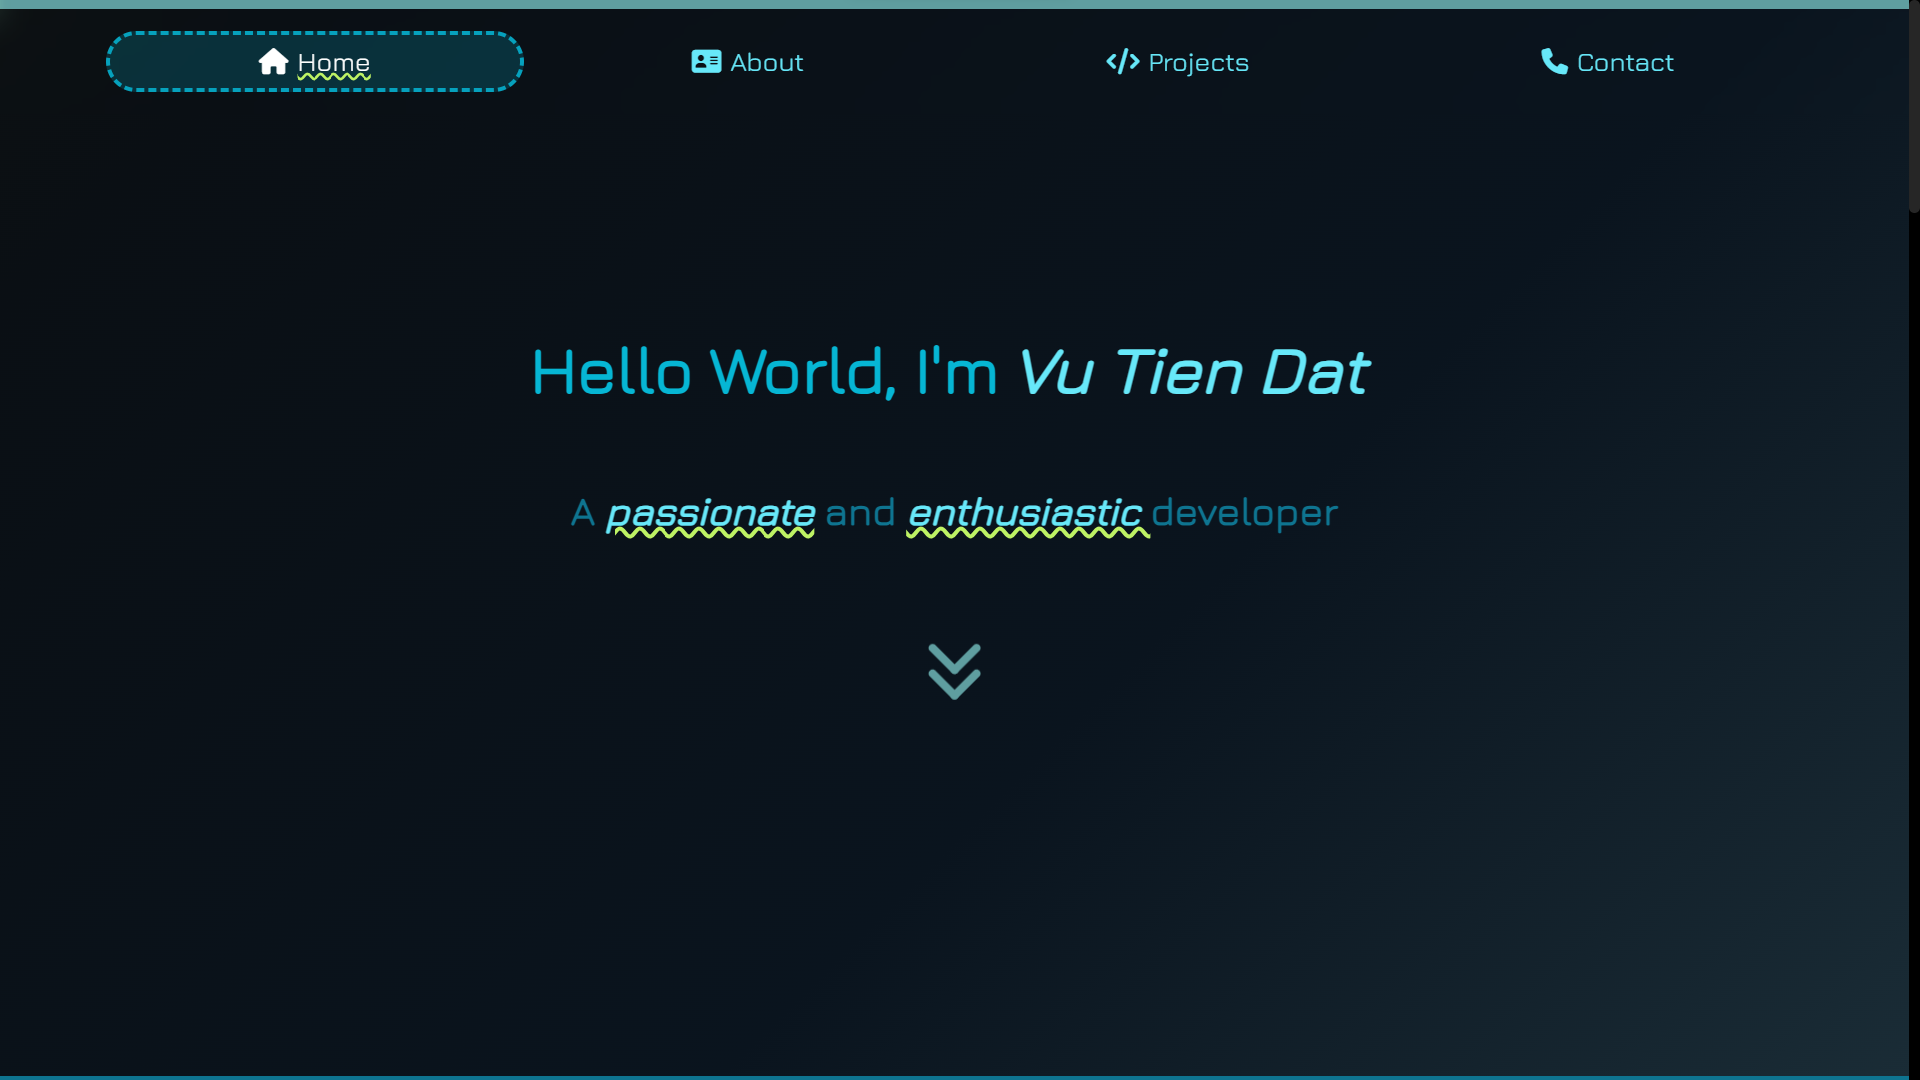
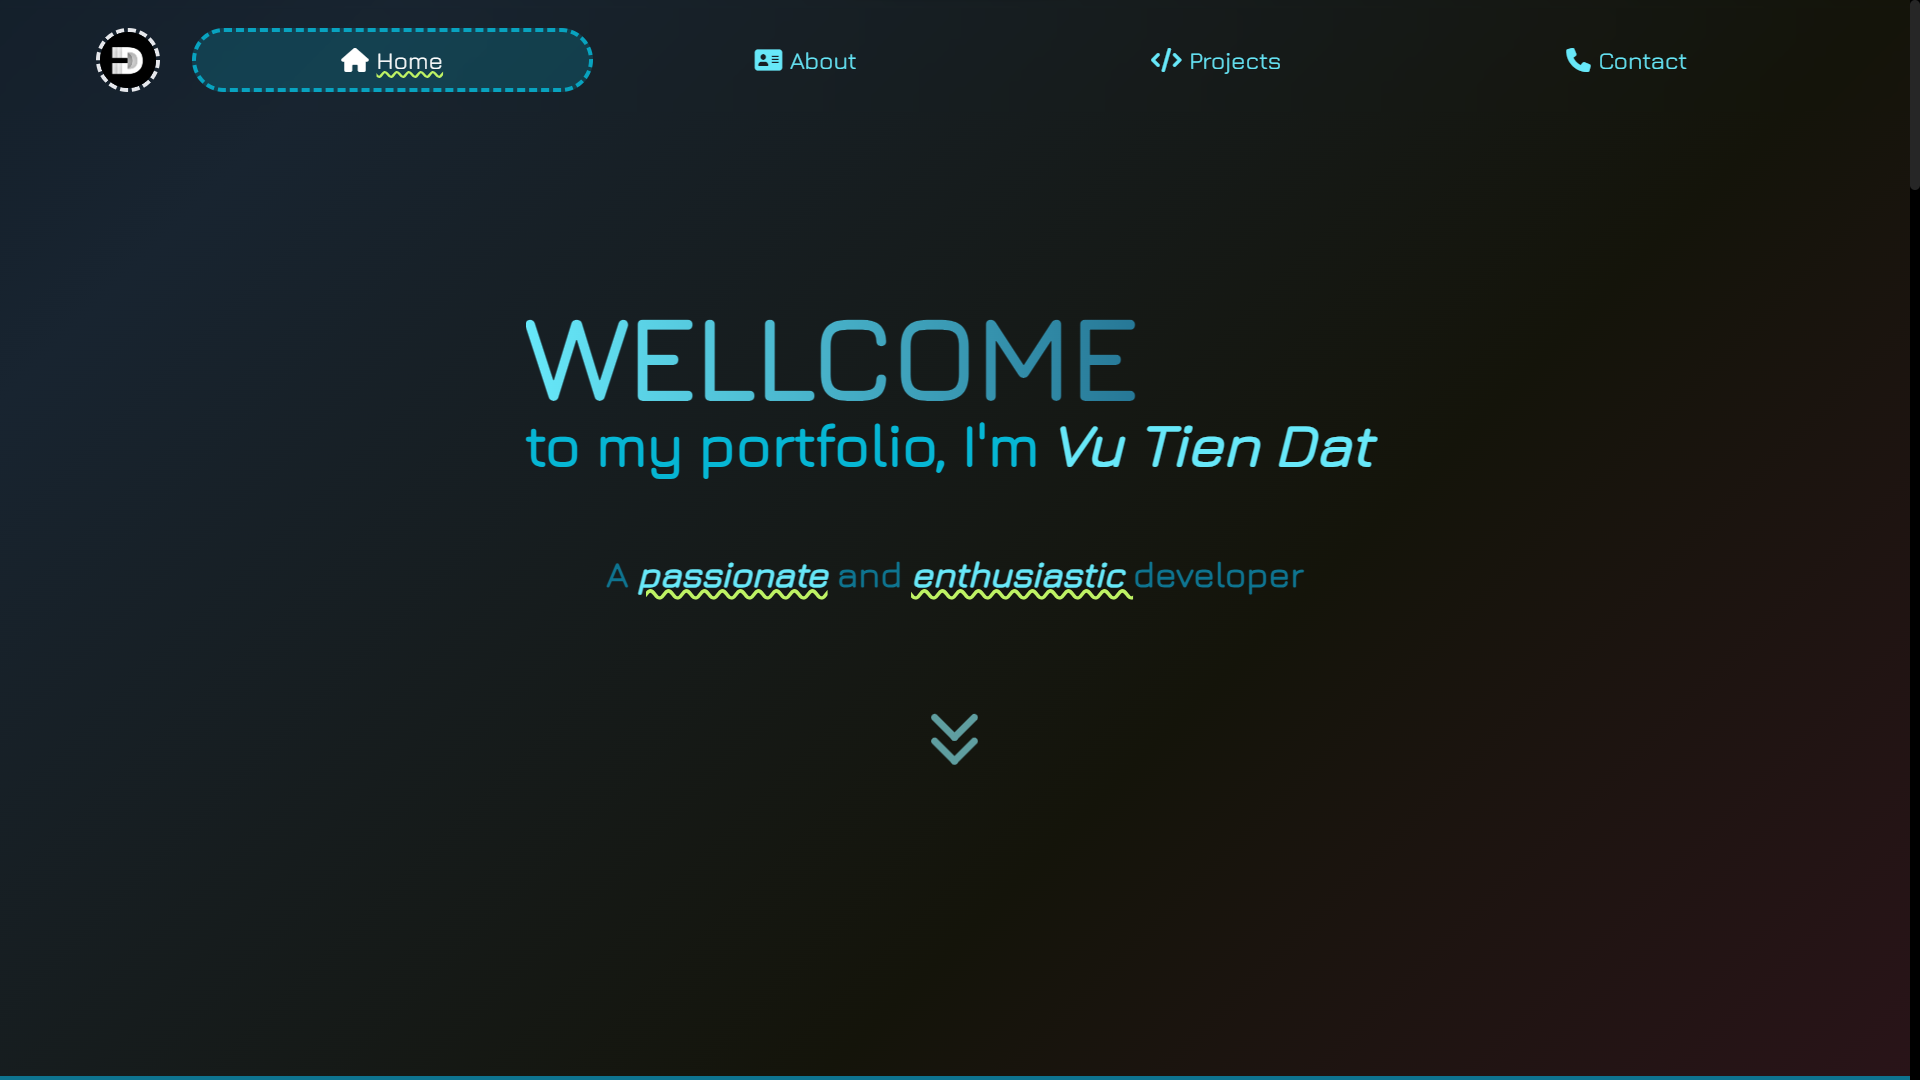
update pỏtfolio

diff --git a/my-app/src/view/components/about/About.js b/my-app/src/view/components/about/About.js
@@ -5,21 +5,17 @@ import ItemSkillWrapper from '../layout/ItemSkillWrapper'
 import expressLogo from '../../assets/image/express.png'
 import nodejsLogo from '../../assets/image/node-js.png'
 import avatar from '../../assets/image/avartar.jpg'
-import { FaCode } from "react-icons/fa6";
-import { FaFilm } from "react-icons/fa6";
-import { FaMusic } from "react-icons/fa6";
-import { FaGamepad } from "react-icons/fa6";
-import { FaMugHot } from "react-icons/fa6";
-import { FaMapLocationDot } from "react-icons/fa6";
-import { FaMoneyBillWave } from "react-icons/fa6";
-import { FaShuttleSpace, FaDisplay, FaServer, FaListOl, FaDatabase } from "react-icons/fa6";
- 
+import firebase from '../../assets/image/firebase.png'
+import github from '../../assets/image/github.png'
+// import github from '../../assets/image/github.png'
+
+import { FaCode, FaFilm, FaMusic, FaGamepad, FaMugHot, FaMapLocationDot, FaMoneyBillWave, FaShuttleSpace, FaDisplay, FaServer, FaListOl, FaDatabase } from "react-icons/fa6";
 import { FieldsetBig, FieldsetChild, FieldsetNormal } from '../layout/Fieldset'
 
 const About = () => {
     const interestItemStyle = 'flex items-center gap-2 text-xl font-semibold'
     return (
-        <section id='about' className='bg-gradient-to-b from-indigo-950 to-sky-900 flex flex-col  items-center px-4 pb-20  border-b-4 border-cyan-700 '>
+        <section id='about' className='bg-gradient-to-r from-black to-cyan-900 flex flex-col  items-center px-4 pb-20r-b-4 border-cyan-700 py-36'>
             <div id='about-me' className='about-container flex flex-wrap justify-center items-center  gap-8 pt-24' >
                 <div className='avatar'>
                     <img src={avatar} alt='avatar'
@@ -68,12 +64,13 @@ const About = () => {
 
                 {/* front end */}
                 <div id='front-end' className='pt-36'>
-                    <FieldsetBig id={'front-end'} icon={<FaDisplay className='text-3xl'/>} title={"Front-End"} spanAfter={<i class="fa fa-gg"></i>}>
+                    <FieldsetBig id={'front-end'} icon={<FaDisplay className='text-3xl' />} title={"Front-End"} spanAfter={<i class="fa fa-gg"></i>}>
                         <FieldsetChild title={"Template"}>
                             <ItemSkillWrapper logoPath={'https://cdn.jsdelivr.net/gh/devicons/devicon/icons/html5/html5-original.svg'} iName={'HTML5'} />
                         </FieldsetChild>
                         <FieldsetChild title={"Style"}>
                             <ItemSkillWrapper logoPath={'https://cdn.jsdelivr.net/gh/devicons/devicon/icons/css3/css3-original.svg'} iName={'CSS'} />
+                            <ItemSkillWrapper logoPath={'https://cdn.jsdelivr.net/gh/devicons/devicon/icons/sass/sass-original.svg'} iName={'SASS'} />
                             <ItemSkillWrapper logoPath={'https://cdn.jsdelivr.net/gh/devicons/devicon/icons/tailwindcss/tailwindcss-plain.svg'} iName={'Tailwind CSS'} />
                         </FieldsetChild>
                         <FieldsetChild title={"Programming"}>
@@ -86,7 +83,7 @@ const About = () => {
                 </div>
                 {/* backend */}
                 <div id='back-end' className='pt-36'>
-                    <FieldsetBig id={'back-end'} icon={<FaServer className='text-3xl'/>} title={"Back-End"} spanAfter={<i class="fa fa-gg"></i>}>
+                    <FieldsetBig id={'back-end'} icon={<FaServer className='text-3xl' />} title={"Back-End"} spanAfter={<i class="fa fa-gg"></i>}>
                         <ItemSkillWrapper logoPath={nodejsLogo} iName={'Node.js'} />
                         <ItemSkillWrapper logoPath={expressLogo} iName={'Express'} />
                         <FieldsetChild icon={<FaDatabase />} title={"Database"}>
@@ -98,15 +95,14 @@ const About = () => {
 
                 {/* Communications */}
                 <div id='other' className='pt-36'>
-                    <FieldsetBig id={'other'} icon={<FaListOl className='text-3xl'/>} title={"Other"} spanAfter={<i class="fa fa-gg"></i>}>
+                    <FieldsetBig id={'other'} icon={<FaListOl className='text-3xl' />} title={"Other"} spanAfter={<i class="fa fa-gg"></i>}>
+                        <ItemSkillWrapper logoPath={firebase} iName={'Firebase'} />
+                        <ItemSkillWrapper logoPath={github} iName={'Github'} />
+                        <ItemSkillWrapper logoPath={'https://cdn.jsdelivr.net/gh/devicons/devicon/icons/git/git-original.svg'} iName={'Git'} />
                         <ItemSkillWrapper logoPath={'https://cdn.jsdelivr.net/gh/devicons/devicon/icons/docker/docker-original.svg'} iName={'Docker'} />
-                        <ItemSkillWrapper logoPath={'https://wikiwandv2-19431.kxcdn.com/_next/image?url=https:%2F%2Fupload.wikimedia.org%2Fwikipedia%2Fcommons%2Fthumb%2Fb%2Fb5%2FDBeaver_logo.svg%2F1500px-DBeaver_logo.svg.png&w=828&q=50'} iName={'Dbeaver'} />
+                        {/* <ItemSkillWrapper logoPath={'https://wikiwandv2-19431.kxcdn.com/_next/image?url=https:%2F%2Fupload.wikimedia.org%2Fwikipedia%2Fcommons%2Fthumb%2Fb%2Fb5%2FDBeaver_logo.svg%2F1500px-DBeaver_logo.svg.png&w=828&q=50'} iName={'Dbeaver'} /> */}
                     </FieldsetBig>
                 </div>
-
-
-
-
             </div>
         </section>
     )

diff --git a/my-app/src/view/components/project/Project.js b/my-app/src/view/components/project/Project.js
@@ -1,5 +1,5 @@
 import React from 'react'
-import projectImg from '../../assets/image/portfolio.png'
+import portfolio from '../../assets/image/portfolio.png'
 import dsuit from '../../assets/image/Dsuit.png'
 // import NeonTitle from '../layout/NeonTitle'
 
@@ -7,7 +7,7 @@ function FigureBox({ name, skillList, sourceLink, webLink, imgPath }) {
     return (
         <li className='max-w-2xl '>
             <figure className='relative'>
-                <img src={imgPath} alt='icon' />
+                <img src={imgPath} alt='icon'/>
                 <figcaption className='absolute top-0  w-full h-full flex items-center justify-center flex-col gap-5 p-8'>
                     <h1 className='text-5xl font-semibold text-yellow-400'>{name}</h1>
                     <ul className='flex gap-4 flex-wrap justify-center underline decoration-wavy decoration-cyan-600'>
@@ -16,11 +16,11 @@ function FigureBox({ name, skillList, sourceLink, webLink, imgPath }) {
                         })}
                     </ul>
                     <div className='w-full flex items-center justify-evenly my-6 text-yellow-500'>
-                        <a href={webLink || ''} className='tranform-icon w-14 flex flex-col items-center'>
+                        <a href={webLink} className='tranform-icon w-14 flex flex-col items-center' target="_blank" rel="noopener noreferrer">
                             <i class="fa-solid fa-arrow-up-right-from-square text-4xl"></i>
                             <span className='hiden-text invisible text-xs'>Website</span>
                         </a>
-                        <a href={sourceLink || ''} className='tranform-icon w-14 flex flex-col  items-center'>
+                        <a href={sourceLink} className='tranform-icon w-14 flex flex-col  items-center' target="_blank" rel="noopener noreferrer">
                             <i class="fa-solid fa-code text-4xl"></i>
                             <span className='hiden-text invisible text-xs'>source</span>
                         </a>
@@ -32,13 +32,21 @@ function FigureBox({ name, skillList, sourceLink, webLink, imgPath }) {
 }
 const Project = () => {
     return (
-        <section id='project' className='bg-gradient-to-t from-indigo-950 to-sky-900 border-b-4 border-cyan-700'>
-            <h1 className='text-4xl font-semibold flex items-center justify-center gap-4 pt-24 text-cyan-500 mx-3 mb-7'>These are some of my personal projects 💻</h1>
+        <section id='project' className='bg-gradient-to-l from-black to-sky-900 border-y-4 border-cyan-700 py-36'>
+            <h1 className='text-4xl font-semibold flex items-center justify-center gap-4  text-cyan-500 mx-3 mb-7'>These are some of my personal projects 🤠</h1>
             <ul className='flex flex-wrap  items-center justify-center px-8 py-32'>
-
-                <FigureBox name={'My Portfolio'} imgPath={projectImg} skillList={['Javascript', 'React', 'TailwindCSS']} />
-                <FigureBox name={'D-suit E-Comm'} imgPath={dsuit} skillList={['Javascript', 'React', 'TailwindCSS', 'Node.Js', 'Expressjs', 'Mongodb']} />
-
+                <FigureBox
+                    name={'My Portfolio'}
+                    imgPath={portfolio}
+                    skillList={['Javascript', 'React', 'TailwindCSS']}
+                    webLink={'https://dat-portfolio-5b957.web.app/'}
+                    sourceLink={'https://github.com/tiendatmgz/Portfolio'}
+                />
+                <FigureBox
+                    name={'D-suit E-Comm'}
+                    imgPath={dsuit}
+                    skillList={['Javascript', 'React', 'TailwindCSS', 'Node.Js', 'Expressjs', 'Mongodb']}
+                />
             </ul>
         </section>
     )

diff --git a/my-app/src/view/components/contact/Contact.js b/my-app/src/view/components/contact/Contact.js
@@ -6,7 +6,7 @@ import tailwindcssIcon from '../../assets/image/tailwind-css.png'
 import jsIcon from '../../assets/image/js.png'
 const Contact = () => {
     return (
-        <section id='contact' className='bg-black flex flex-col items-center justify-between  text-lg pt-6  px-6 border-b-4 border-cyan-700 pb-20'>
+        <section id='contact' className=' bg-black flex flex-col items-center justify-between  text-lg pt-6  px-6 border-b-4 border-cyan-700 pb-20'>
             <h1 className='text-5xl font-semibold text-white mt-24 '>Contact me</h1>
             <p className='my-12 '>You can get in touch with me at <span className='underline decoration-wavy decoration-lime-300'>any time</span>; I'm interested in new opportunities. If you have any questions, don't hesitate to ask me:</p>
             <ul className='contact-box container-shadow list-none  rounded-xl'>
@@ -29,7 +29,7 @@ const Contact = () => {
 
             {/* {------------------------------------------------------------ } */}
             <div className='border-t border-cyan-700 mt-24 pt-12 w-full flex flex-col items-center justify-center gap-12'>
-                <ul className='flex gap-8'>
+                <ul className='flex flex-wrap gap-8'>
                     <li>
                         <NeonTitle href={'mailto:tiendatyenbai2001@gmail.com'}>
                             <div className='tranform-icon w-14 flex flex-col items-center'>
@@ -55,16 +55,15 @@ const Contact = () => {
                         </NeonTitle>
                     </li>
                 </ul>
-                <ul className='flex gap-3 '>
+                <ul className='flex flex-wrap gap-3 '>
                     Build with:
                     <li className='flex gap-1 '>
-                        <img className='h-7 w-7' src={jsIcon} alt='Tailwind CSS' /><span className='underline decoration-lime-300 decoration-wavy'>Javascript</span>,
+                        <img className='h-7 w-7' src={jsIcon} alt='Tailwind CSS' /><span className='underline decoration-lime-300 decoration-wavy'>Javascript</span>
                     </li>
 
                     <li className='flex gap-1 decoration-lime-300 decoration-wavy'>
                         <img className='h-7 w-7' src={reactIcon} alt='React' /><span className='underline decoration-lime-300 decoration-wavy'>React </span>
                     </li>
-                    and
                     <li className='flex gap-1 '>
                         <img className='h-7 w-7' src={tailwindcssIcon} alt='Tailwind CSS' /><span className='underline decoration-lime-300 decoration-wavy'>Tailwind CSS</span>
                     </li>

diff --git a/my-app/src/view/components/home/Home.js b/my-app/src/view/components/home/Home.js
@@ -2,9 +2,10 @@ import React from 'react'
 const Home = () => {
     return (
         <section id='home' className='min-h-screen flex justify-center items-center border-b-4 border-cyan-700'>
-            <div className='bghome-onload flex flex-col justify-center items-center p-12 '>
-                <h1 className='float-left text-6xl py-12 font-semibold text-cyan-500'>
-                    Hello World, I'm
+            <div className='bghome-onload flex flex-col  items-center p-12 '>
+                <h1 className=' float-left text-6xl py-12 font-semibold text-cyan-500'>
+                    <p style={{fontSize:'120px'}} className='text-8xl   text-transparent bg-clip-text bg-gradient-to-r from-cyan-300 to-sky-900 uppercase '>Wellcome</p>
+                    to my portfolio, I'm
                     <span className='myname text-cyan-300 italic'>Vu Tien Dat</span>
                 </h1>
                 <h2 className='py-8 text-4xl font-bold text-cyan-700'>
@@ -12,15 +13,13 @@ const Home = () => {
                     <span className='text-cyan-300 italic underline decoration-lime-300 decoration-wavy'>passionate</span>{' '}
                     and {' '}
                     <span className=' text-cyan-300 italic underline decoration-lime-300 decoration-wavy'> enthusiastic </span>
-                    developer 
+                    developer
                     <span className='editing-pointer'></span>
                 </h2>
                 <a href='#about' className='m-16'>
                     <div className='arrow-down'>
                         <span className='arrow-1' />
-                        <span className='arrow-2' />
-                        {/* a passionate and enthusiastic developer */}
-                    </div>
+                        <span className='arrow-2' />                    </div>
                 </a>
             </div>
         </section>

diff --git a/my-app/src/view/components/layout/Fieldset.js b/my-app/src/view/components/layout/Fieldset.js
@@ -12,7 +12,7 @@ const FieldsetNormal = ({ children, title }) => {
 const FieldsetBig = ({ id, icon, spanAfter, children, title }) => {
     //spanAfter = anything
     return (
-        <fieldset id={id} className='container-shadow flex flex-wrap justify-evenly items-center gap-6 py-4 px-3 border border-cyan-700 rounded-lg max-w-7xl bg-slate-950'>
+        <fieldset id={id} className='container-shadow flex flex-wrap justify-evenly items-center gap-6 p-8 border border-cyan-700 rounded-lg max-w-7xl bg-slate-950'>
             <legend className='px-2 text-xl text-teal-300 '>
                 <NeonTitle href={'#' + id} spanAfter={spanAfter}>
                     
@@ -27,7 +27,7 @@ const FieldsetBig = ({ id, icon, spanAfter, children, title }) => {
 const FieldsetChild = ({ icon, children, title }) => {
 
     return (
-        <fieldset className={`container-shadow mb-12 mx-4 flex flex-wrap justify-evenly items-center gap-6 py-4 px-3 border  border-cyan-700 pink-900 rounded-lg max-w-7xl bg-black`}>
+        <fieldset className={`container-shadow mb-12 mx-4 flex flex-wrap justify-evenly items-center gap-6 p-8 border  border-cyan-700 pink-900 rounded-lg max-w-7xl bg-black`}>
             <legend className={`flex justify-evenly items-center gap-2 text-xl text-lime-300 pink-500  px-2`}>
                 {!!icon && icon }
                 <span>{title}</span>

diff --git a/my-app/src/view/components/Navbar.js b/my-app/src/view/components/Navbar.js
@@ -1,4 +1,5 @@
 import React, { useState } from 'react'
+import logo from '../assets/image/TIENDAT-MGZ-logo1.png'
 
 const Navbar = () => {
     const [selectedChildIndex, setSelectedChildIndex] = useState(0);
@@ -31,7 +32,8 @@ const Navbar = () => {
             <div className=" Scroll-Indicator w-screen h-2  left-0 fixed z-10 backdrop-blur-xl ">
                 <div id="myBar" className=" h-2  w-0 bg-yellow-400 shadow-xl"></div>
             </div>
-            <nav id='navbar' className='fixed left-0 w-screen z-10 py-5 px-24 mt-2 backdrop-blur-xl text-cyan-300' >
+            <nav id='navbar' className='fixed flex gap-8 left-0 w-screen z-10 py-5 px-24 mt-2 backdrop-blur-xl text-cyan-300' >
+                <img src={logo} alt='logo' className='w-16 rounded-full border-4 border-dashed '/>
                 <div className='flex gap-4 w-full   '>
                     <a className={(selectedChildIndex === 0 ? 'nav-selected ' : '') + classCss} href='#home'>
                         <i className="  fa-solid fa-house"></i>
@@ -56,5 +58,3 @@ const Navbar = () => {
 }
 
 export default Navbar
-
-

diff --git a/my-app/src/index.css b/my-app/src/index.css
@@ -136,11 +136,11 @@ figcaption {
       135deg,
       #1e323c,
       #0a141e,
-      #0a0f14,
+      #182430,
       #14140a,
-      #260f17,
+      #31141e,
       #14140a,
-      #0a0f14,
+      #1b2835,
       #0a141e,
       #1e323c
     );
@@ -168,12 +168,14 @@ figcaption {
 }
 
 .myname::before {
-  content: "tiendatmgz";
+  content: "";
   text-align: center;
   position: absolute;
   inset: 0;
+
+/* 50*80*10 */
+
   color: #000;
-  background: #66cdaa;
   font-weight: 400;
   transform: scaleX(0);
   transform-origin: right;
@@ -302,11 +304,6 @@ li:hover .icon-hover-moveup {
   visibility: visible;
 }
 
-/* about */
-/* #about {
-  background: #0a0f14 linear-gradient(135deg, #192328, #0a0f14);
-} */
-
 .avatar > img {
   box-shadow: 0 0 8px teal;
 }
@@ -330,3 +327,5 @@ li:hover .icon-hover-moveup {
 .about-me-p {
   margin: 1.2rem 0;
 }
+
+/* ---------- */

diff --git a/my-app/public/index.html b/my-app/public/index.html
@@ -13,7 +13,7 @@
   <link rel="preconnect" href="https://fonts.gstatic.com" crossorigin>
   <link href="https://fonts.googleapis.com/css2?family=Jura&display=swap" rel="stylesheet">
 
-<link href="https://fonts.googleapis.com/css2?family=Material+Symbols+Outlined" rel="stylesheet" />
+  <link href="https://fonts.googleapis.com/css2?family=Material+Symbols+Outlined" rel="stylesheet" />
 
   <!-- link css.gg icon -->
   <link href='https://unpkg.com/css.gg@2.0.0/icons/css/home.css' rel='stylesheet'>
@@ -21,7 +21,10 @@
 
   <!-- devicons -->
   <link rel="stylesheet" href="https://cdn.jsdelivr.net/gh/devicons/devicon@v2.15.1/devicon.min.css">
-  <title>React App</title>
+
+  <link rel="icon" href="%PUBLIC_URL%/favicon.ico">
+
+  <title>My Portfolio</title>
 </head>
 
 <body>

diff --git a/my-app/src/App.js b/my-app/src/App.js
@@ -4,14 +4,16 @@ import Home from './view/components/home/Home';
 import About from './view/components/about/About';
 import Contact from './view/components/contact/Contact';
 import Project from './view/components/project/Project';
+import Tiltname from './view/components/layout/Tilt';
 
 
 function App() {
 
   return (
-    <div className='font-Jura text-gray-300 h-screen bg-black'>
+    <div className='font-Jura text-gray-300 bg-black'>
       <Navbar />
       <Home />
+      <Tiltname />
       <About />
       <Project />
       <Contact />

diff --git a/my-app/src/view/components/layout/ItemSkillWrapper.js b/my-app/src/view/components/layout/ItemSkillWrapper.js
@@ -3,7 +3,10 @@ import React from 'react'
 const ItemSkillWrapper = ({ logoPath, iName }) => {
     return (
         <div className='skill-tech flex flex-col gap-2 items-center'>
-            <img src={logoPath} alt={iName} className='tech-icon h-14 w-14' />
+            <div className='w-14 flex items-center justify-center'> 
+                <img src={logoPath} alt={iName} className='tech-icon h-14 object-cover' />
+
+            </div>
             <i className='tech-text text-center text-sm'>{iName}</i>
         </div>
     )

diff --git a/my-app/src/view/components/layout/Tilt.js b/my-app/src/view/components/layout/Tilt.js
@@ -1,0 +1,17 @@
+import React from 'react'
+import Tilt from 'react-parallax-tilt';
+import logo from '../../assets/image/TIENDAT-MGZ-black.png'
+
+const Tiltname = () => {
+    return (
+        <div className=' overflow-hidden border-b-4 border-cyan-700'>
+            <Tilt className='w-full flex justify-center'>
+                <img src={logo} style={{
+                    height: '600px'
+                }} />
+            </Tilt>
+        </div>
+    )
+}
+
+export default Tiltname

diff --git a/my-app/tailwind.config.js b/my-app/tailwind.config.js
@@ -7,7 +7,12 @@ module.exports = {
     fontFamily: {
       'Jura': ['Jura', 'sans-serif'],
     },
-    extend: {},
+    extend: {
+      colors: {
+        'bg-gradient-1': 'rgba(19,128,134,1) ',
+        'bg-gradient-2': 'rgba(83,70,102,1)',
+      },
+    },
   },
   plugins: [],
 }
